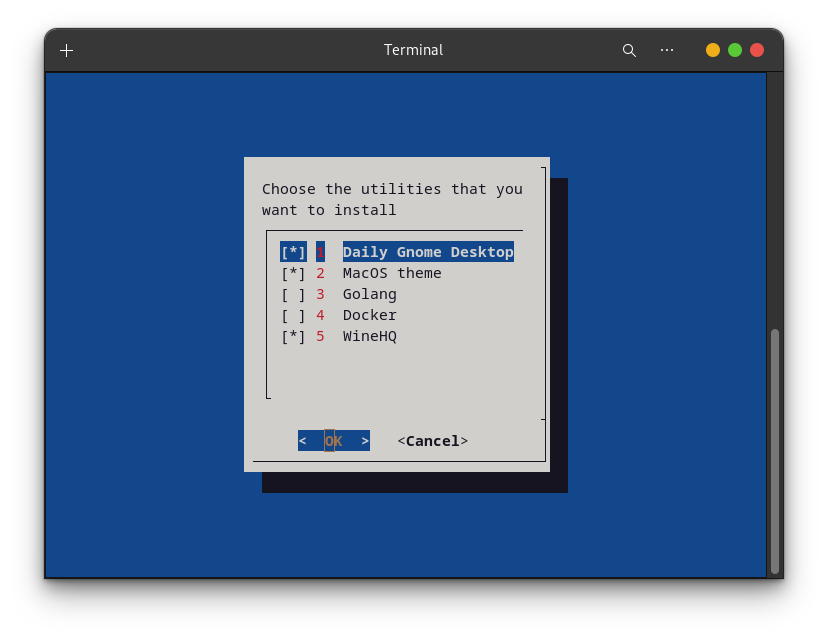
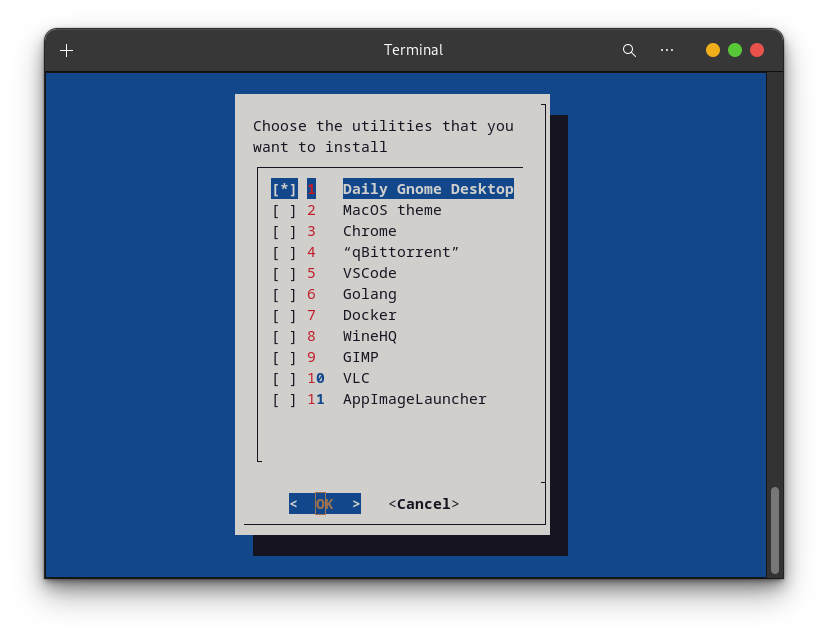
tui 2.0 for desktop installation

Changed region(s): [[0.2717, 0.1487, 0.6944, 0.892], [0.9058, 0.5055, 0.9662, 0.7731], [0.3623, 0.5649, 0.3925, 0.6244]]

diff --git a/README.md b/README.md
@@ -12,10 +12,17 @@ All in all, hope you enjoy, staring this repo is the best support
 if you have any question about scripts, 
 please let me know to create an issue! :)
 
+OP is just an undergraduate student now, may have no time to reply very often. TwT
+
 ## How to use
+Prerequisite: make sure you have `curl` installed
+```bash
+sudo apt install curl -y
+```
+
+Execute the following command and Follow the TUI to finish installing your Debian, and you are done!
 ```bash
 sudo bash -c "$(curl -fsSL https://raw.githubusercontent.com/GeekerHWH/CustomizeDebian12/main/CustomizeDebian12.sh)"
-# follow the TUI to finish installing your Debian, and you are done!
 ```
 
 > - Some softwares might need be installed in TUN proxy mode if you are in China
@@ -31,22 +38,30 @@ sudo bash -c "$(curl -fsSL https://raw.githubusercontent.com/GeekerHWH/Customize
 - [x] Tweaks (experimental)
 - [ ] Customize Server Lab (experimental)
 
-### Supported Desktop Softwares (Group if nums surpass 15)
-- [x] VSCode
-- [x] Docker
-- [x] WineHQ
-- [ ] Nvidia-driver
-- [x] MacOS Theme
-- [x] Golang
-- [ ] Protobuf
-- [ ] gRPC
-- [ ] Nekoray
-- [x] Chrome
-- [x] qBittorrent
-- [x] GIMP
-- [x] VLC
-- [x] AppImageLauncher
+### Supported Desktop Softwares (Divide if nums of any group surpass 15)
+- Desktop Environment
+  - [x] Original Gnome
+  - [x] MacOS Theme
+- Daily Softwares
+  - [x] Chrome
+  - [x] qBittorrent
+  - [x] WineHQ
+  - [x] GIMP
+  - [x] VLC
+  - [x] AppImageLauncher
+- Development Tools
+  - [x] Vim
+  - [x] VSCode
+  - [x] Git
+  - [x] Docker
+  - [x] Go
+  - [ ] Protobuf
+  - [ ] gRPC
+  - [ ] Nvidia-Driver
 
-### ChangeMirror module is developing
+### What are in developing
+- [ ] I'm considering how many country really need to change the mirror...
+- [ ] group softwares into different categories
+
 https://github.com/GeekerHWH/CustomizeDebian12
 ![Procedure](Notes/CustomizeDebian12.drawio.png)
